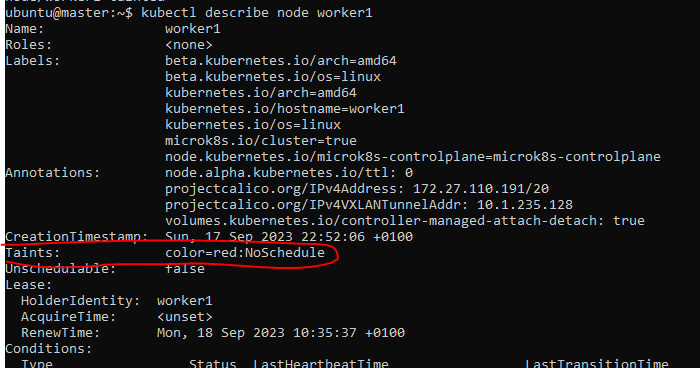
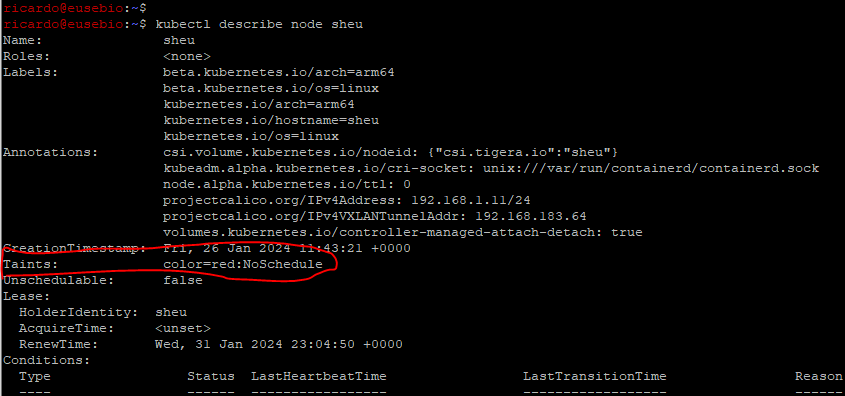
update taint

Changed region(s): [[0.0, 0.0, 0.99, 1.0], [0.6, 0.9266, 1.0, 1.0]]

diff --git a/02-Scheduling/Taints and Tolerations/demo.md b/02-Scheduling/Taints and Tolerations/demo.md
@@ -6,25 +6,39 @@ kubectl get nodes
 ```
 ![Alt Text](/00-images/Scheduling/taint.PNG)
 
-### 2. Do any Tains exist on worker node "Sheu"?
+### 2. Do any Taints exist on worker node "Sheu"?
 ```
 kubectl describe node sheu
 ```
 ![Alt Text](/00-images/Scheduling/taint1.PNG)
 
-3º Create a Taint on worker1 node with key=color, value=red and effect:NoSchedule
-
+### 3. Create a Taint on worker node  "Sheu" with key=color, value=red and effect:NoSchedule
+```
+kubectl taint node sheu color=red:NoSchedule
+```
 ![Alt Text](/00-images/Scheduling/taint2.PNG)
 
+```
+kubectl describe node sheu
+```
 ![Alt Text](/00-images/Scheduling/taint3.PNG)
 
-4º Create a new pod with pod name mosquito and check what is the state of the pod?
+### 4. Create a new pod with pod name mosquito and check what is the state of the pod?
+```
+kubectl run mosquito --image=nginx
+```
+![Alt Text](/00-images/Scheduling/taint12.PNG)
 
+```
+kubectl run mosquito --image=nginx
+```
 ![Alt Text](/00-images/Scheduling/taint4.PNG)
 - State is PENDING
 
-5º Why do you think the pod is in a pending state?
-
+### 5. Why do you think the pod is in a pending state?
+```
+kubectl describe pod mosquito
+```
 ![Alt Text](/00-images/Scheduling/taint5.PNG)
 - Pod mosquito cannot toletare taint COLOR
 
